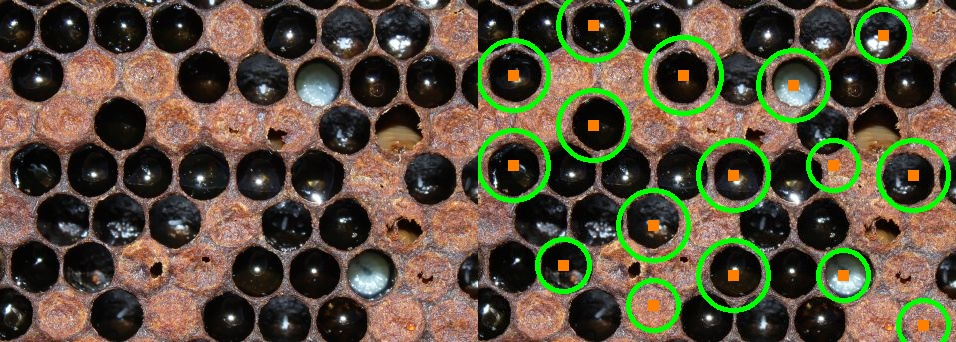
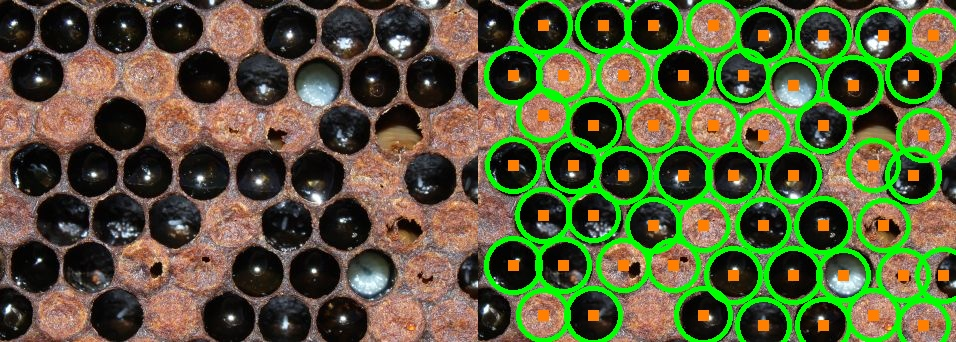
changes

Changed region(s): [[0.4854, 0.0, 1.0, 1.0]]

diff --git a/circles.py b/circles.py
@@ -15,7 +15,7 @@ gray = cv2.cvtColor(image, cv2.COLOR_BGR2GRAY)
 counter =0
 
 # detect circles in the image
-circles = cv2.HoughCircles(gray, cv2.cv.CV_HOUGH_GRADIENT, 10, 80, param1=80, param2= 40,minRadius = 20, maxRadius= 55)
+circles = cv2.HoughCircles(gray, cv2.cv.CV_HOUGH_GRADIENT, 10, 40, param1=80, param2= 40,minRadius = 20, maxRadius= 40)
 
 # ensure at least some circles were found
 if circles is not None:
@@ -30,7 +30,7 @@ if circles is not None:
 		cv2.rectangle(output, (x - 5, y - 5), (x + 5, y + 5), (0, 128, 255), -1)
 
 		cropped = image[max(y-r,0):min(y+r,image.shape[0]), max(x-r,0):min(x+r, image.shape[1])]
-		cv2.imwrite("cell-capped"+ str(counter) + ".jpg", cropped)
+		cv2.imwrite("cell-red"+ str(counter) + ".jpg", cropped)
 
 		counter +=1
 
